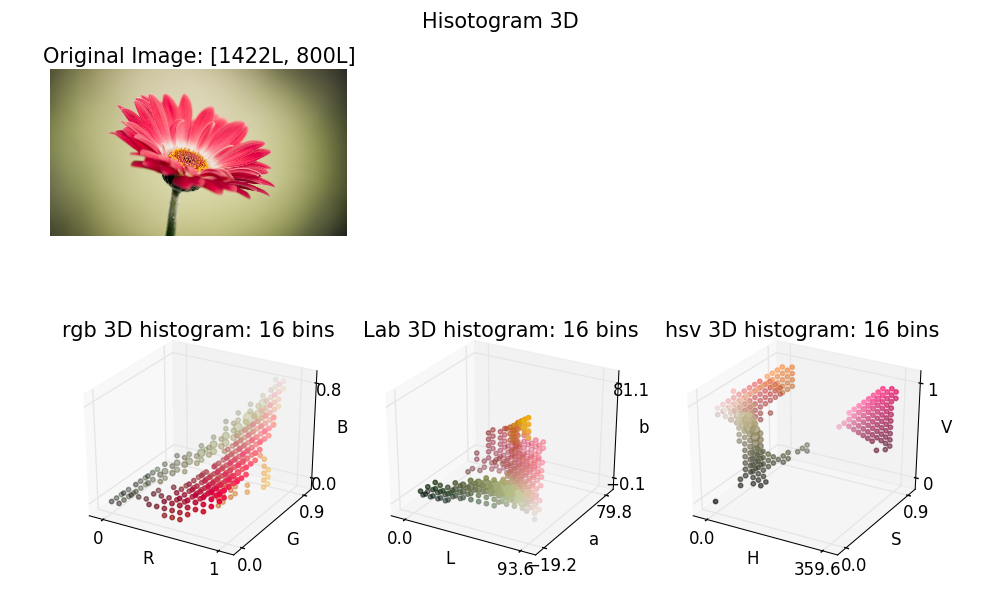
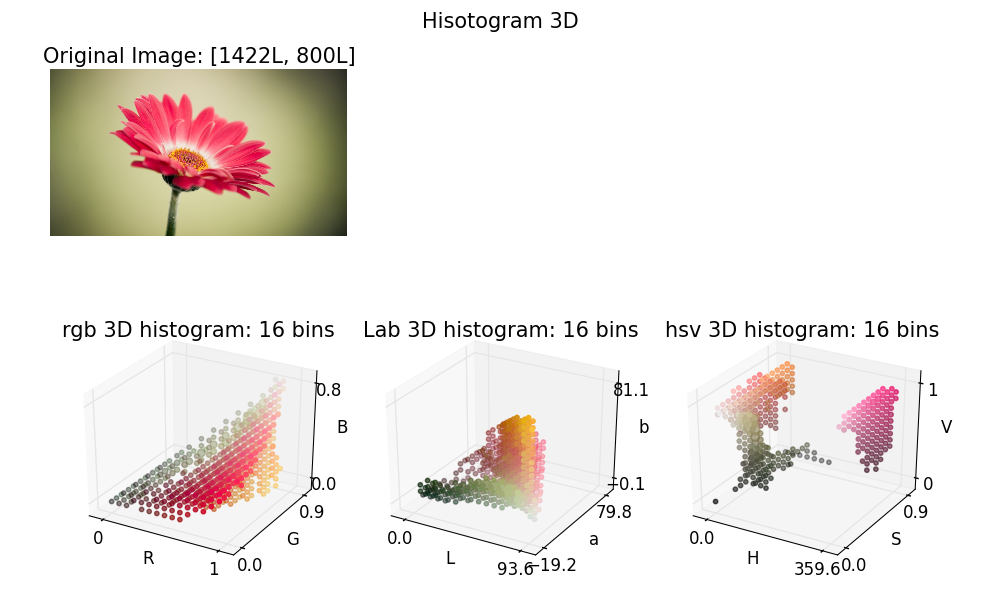
Update results.

Changed region(s): [[0.124, 0.69, 0.279, 0.87], [0.403, 0.69, 0.558, 0.84], [0.744, 0.6, 0.899, 0.81]]

diff --git a/color_histogram/core/hist_3d.py b/color_histogram/core/hist_3d.py
@@ -2,16 +2,13 @@
 # -*- coding: utf-8 -*-
 ## @package color_histogram.core.hist_3d
 #
-#  Color histogram 3D class.
+#  Implementation of 3D color histograms.
 #  @author      tody
 #  @date        2015/08/28
 
 import numpy as np
-from mpl_toolkits.mplot3d import Axes3D
-import matplotlib.pyplot as plt
 
 from color_histogram.cv.image import to32F, rgb, hsv2rgb, Lab2rgb
-from color_histogram.datasets.google_image import loadData
 
 
 ## Implementation of 3D color histograms.
@@ -21,14 +18,16 @@ class Hist3D:
     #  @param num_bins       target number of histogram bins.
     #  @param alpha          low density clip.
     def __init__(self, image,
-                 num_bins=16, alpha=0.3, color_space="rgb"):
-        self._pixels = self.toPixels(image)
+                 num_bins=16, alpha=0.1, color_space="rgb",
+                 density_size_range=[10, 100]):
+        self.pixels = self.toPixels(image)
         self._num_bins = num_bins
         self._alpha = alpha
         self._color_space = color_space
+        self._density_size_range = density_size_range
 
-        self.computeColorRanges()
-        self.computeHistogram()
+        self._computeColorRange()
+        self._computeHistogram()
 
     def toPixels(self, image):
         if len(image.shape) == 2:
@@ -38,8 +37,8 @@ class Hist3D:
         h, w, cs = image.shape
         return image.reshape((-1, cs))
 
-    def computeColorRanges(self):
-        pixels = self._pixels
+    def _computeColorRange(self):
+        pixels = self.pixels
 
         cs = pixels.shape[1]
 
@@ -49,17 +48,16 @@ class Hist3D:
             c_min[ci] = np.min(pixels[:, ci])
             c_max[ci] = np.max(pixels[:, ci])
 
-        self._color_ranges = [c_min, c_max]
+        self._color_range = [c_min, c_max]
 
-    def computeHistogram(self):
-        pixels = self._pixels
+    def _computeHistogram(self):
+        pixels = self.pixels
         num_bins = self._num_bins
-        c_min, c_max = self._color_ranges
+        c_min, c_max = self._color_range
 
-        hist_bins = np.zeros((num_bins, num_bins, num_bins), dtype = np.int32)
+        hist_bins = np.zeros((num_bins, num_bins, num_bins), dtype=np.int32)
 
-        num_pixels = pixels.shape[0]
-        color_ids = (num_bins - 1) * (pixels - c_min) / (c_max-c_min)
+        color_ids = (num_bins - 1) * (pixels - c_min) / (c_max - c_min)
         color_ids = np.int32(color_ids)
 
         for color_id in color_ids:
@@ -72,13 +70,12 @@ class Hist3D:
         color_ids = np.where(self._hist_bins > density_mean * self._alpha)
         return color_ids
 
-    def colorSamples(self):
+    def colorCoordinates(self):
         color_ids = self.colorIDs()
         color_ids = np.array(color_ids).T
-        print color_ids.shape
 
         num_bins = self._num_bins
-        c_min, c_max = self._color_ranges
+        c_min, c_max = self._color_range
         color_samples = c_min + (color_ids * (c_max - c_min)) / float(num_bins - 1.0)
 
         return color_samples
@@ -92,7 +89,7 @@ class Hist3D:
         return color_densities
 
     def rgbColors(self):
-        color_samples = self.colorSamples()
+        color_samples = self.colorCoordinates()
         colors = color_samples
         if self._color_space == "Lab":
             colors = Lab2rgb(np.float32(color_samples.reshape(1, -1, 3))).reshape(-1, 3)
@@ -103,12 +100,12 @@ class Hist3D:
         colors = np.clip(colors, 0.0, 1.0)
         return colors
 
-    def colorRanges(self):
-        return self._color_ranges
+    def colorRange(self):
+        return self._color_range
 
-    def axisColorSpace(self, ax):
+    def _axisSetting(self, ax):
 
-        color_ranges = 0.1 * np.int32(10 * np.array(self._color_ranges)).T
+        color_ranges = 0.1 * np.int32(10 * np.array(self._color_range)).T
 
         xrange = color_ranges[0]
         yrange = color_ranges[1]
@@ -119,19 +116,11 @@ class Hist3D:
             ax.set_ylabel('G')
             ax.set_zlabel('B')
         elif self._color_space == "Lab":
-#             xrange = [0.0, 100.0]
-#             yrange = [-50, 100.0]
-#             zrange = [-50.0, 100.0]
-
             ax.set_xlabel('L')
             ax.set_ylabel('a')
             ax.set_zlabel('b')
 
         elif self._color_space == "hsv":
-#             xrange = [0.0, 360.0]
-#             yrange = [0.0, 1.0]
-#             zrange = [0.0, 1.0]
-
             ax.set_xlabel('H')
             ax.set_ylabel('S')
             ax.set_zlabel('V')
@@ -160,37 +149,20 @@ class Hist3D:
         ax.set_ylim3d(ylim)
         ax.set_zlim3d(zlim)
 
-    def plotColorSamples(self, ax):
-        color_samples = self.colorSamples()
-        density_size = self.plotDensitySize()
+    def plot(self, ax):
+        color_samples = self.colorCoordinates()
+        density_size = self._densitySizes()
         colors = self.rgbColors()
 
         ax.scatter(color_samples[:, 0], color_samples[:, 1], color_samples[:, 2],
                     color=colors, s=density_size)
 
-        self.axisColorSpace(ax)
+        self._axisSetting(ax)
 
-
-
-
-
-
-
-    def plotDensitySize(self):
+    def _densitySizes(self):
         color_densities = self.colorDensities()
-        density_size = 10.0 * np.power(10.0, color_densities)
+
+        density_size_min, density_size_max = self._density_size_range
+        density_size_factor = density_size_max / density_size_min
+        density_size = density_size_min * np.power(density_size_factor, color_densities)
         return density_size
-
-
-if __name__ == '__main__':
-    C_8U = loadData(data_name="flower", data_id=0)
-    rgb_8U = rgb(C_8U)
-    C_32F = to32F(rgb_8U)
-
-    fig = plt.figure()
-    ax = fig.add_subplot(111, projection='3d')
-
-    hist3D = Hist3D(C_32F, num_bins=16)
-    hist3D.plotColorSamples(ax)
-
-    plt.show()

diff --git a/color_histogram/core/color_pixels.py b/color_histogram/core/color_pixels.py
@@ -1,0 +1,58 @@
+# -*- coding: utf-8 -*-
+## @package color_histogram.core.color_pixels
+#
+#  Simple color pixel class.
+#
+#  @author      tody
+#  @date        2015/08/28
+
+import numpy as np
+
+from color_histogram.cv.image import to32F, rgb2Lab, rgb2hsv
+
+
+## Implementation of 3D color histograms.
+class ColorPixels:
+    ## Constructor
+    #  @param image          input image.
+    def __init__(self, image, num_pixels=1000):
+        self._image = to32F(image)
+        self._num_pixels = num_pixels
+        self._rgb_pixels = None
+        self._Lab = None
+        self._hsv = None
+
+    def rgb(self):
+        if self._rgb_pixels is None:
+            self._rgb_pixels = self.pixels("rgb")
+        return self._rgb_pixels
+
+    def Lab(self):
+        if self._Lab is None:
+            self._Lab = self.pixels("Lab")
+        return self._Lab
+
+    def hsv(self):
+        if self._hsv is None:
+            self._hsv = self.pixels("hsv")
+        return self._hsv
+
+    def pixels(self, color_space="rgb"):
+        image = np.array(self._image)
+        if color_space == "Lab":
+            image = rgb2Lab(self._image)
+
+        if color_space == "hsv":
+            image = rgb2hsv(self._image)
+        return self._image2pixels(image)
+
+    def _image2pixels(self, image):
+        pixels = None
+        if len(image.shape) == 2:
+            h, w = image.shape
+            step = h * w / self._num_pixels
+            return image.reshape((h * w))[::step]
+
+        h, w, cs = image.shape
+        step = h * w / self._num_pixels
+        return image.reshape((-1, cs))[::step]

diff --git a/color_histogram/results/hist_3d.py b/color_histogram/results/hist_3d.py
@@ -1,5 +1,3 @@
-from color_histogram.datasets.google_image import dataFile
-
 # -*- coding: utf-8 -*-
 ## @package color_histogram.results.hist_3d
 #
@@ -14,10 +12,14 @@ import matplotlib.pyplot as plt
 from color_histogram.io_util.image import loadRGB
 from color_histogram.cv.image import rgb, to32F, rgb2Lab, rgb2hsv
 from color_histogram.core.hist_3d import Hist3D
+from color_histogram.datasets.google_image import dataFile
 from color_histogram.results.results import resultFile
 from color_histogram.plot.window import showMaximize
+from color_histogram.util.timer import timing_func
 
 
+## Plot 3D color histograms for the target image, color space, channels.
+@timing_func
 def plotHistogram3D(C_32F, color_space, ax):
     samples = np.array(C_32F)
     if color_space == "Lab":
@@ -31,8 +33,10 @@ def plotHistogram3D(C_32F, color_space, ax):
     plt.title("%s 3D histogram: %s bins" % (color_space, num_bins), fontsize=font_size)
 
     hist3D = Hist3D(samples, num_bins=num_bins, color_space=color_space)
-    hist3D.plotColorSamples(ax)
+    hist3D.plot(ax)
 
+
+## Compute histogram 3D result for the image file.
 def histogram3DResult(image_file):
     image_name = os.path.basename(image_file)
     image_name = os.path.splitext(image_name)[0]
@@ -71,7 +75,7 @@ def histogram3DResult(image_file):
     #showMaximize()
 
 
-## Performance tests for the data names, IDs.
+## Compute histogram 3D results for the data names, ids.
 def histogram3DResults(data_names, data_ids):
     for data_name in data_names:
         print "Performance tests: %s" % data_name

diff --git a/color_histogram/main.py b/color_histogram/main.py
@@ -1,0 +1,19 @@
+
+# -*- coding: utf-8 -*-
+## @package color_histogram.main
+#
+#  Main functions.
+#  @author      tody
+#  @date        2015/08/28
+
+from color_histogram.datasets.google_image import createDatasets
+
+from color_histogram.results.hist_2d import histogram2DResults
+
+if __name__ == '__main__':
+    data_names = ["flower"]
+    num_images = 3
+    data_ids = range(num_images)
+
+    createDatasets(data_names, num_images, update=False)
+    histogram2DResults(data_names, data_ids)
